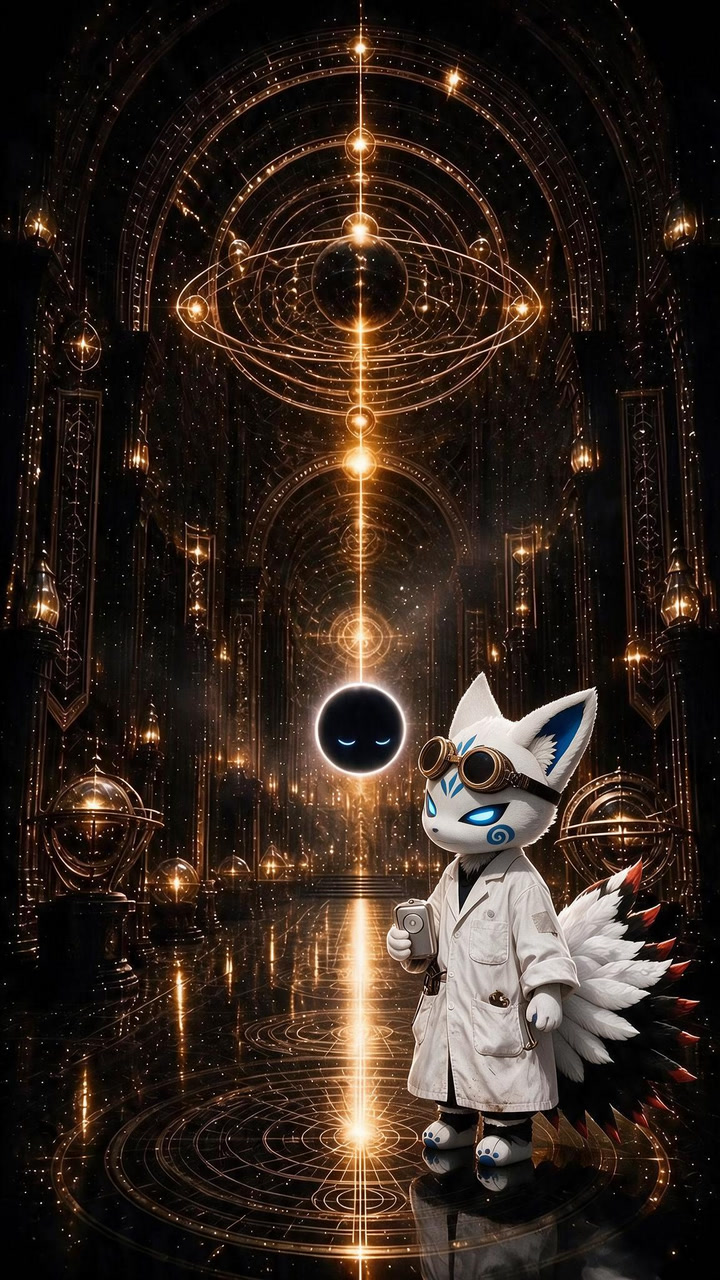
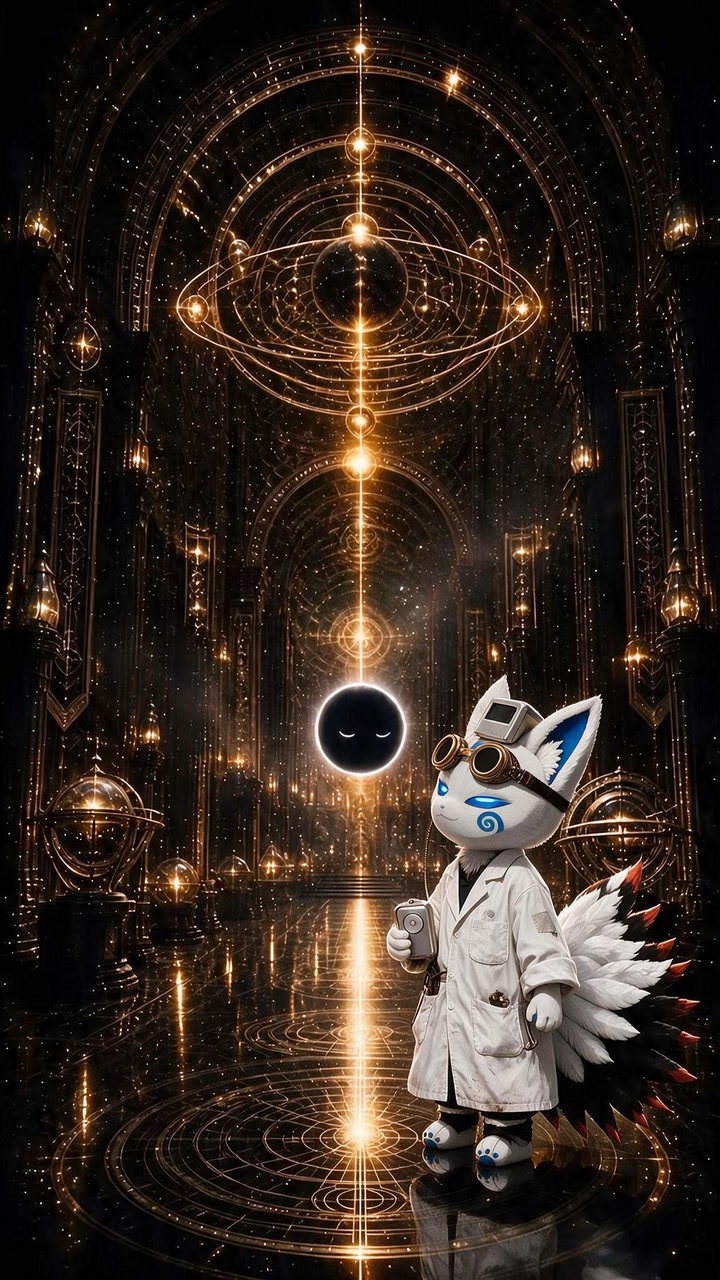
UI art: new pictures [skip ci]

Changed region(s): [[0.5806, 0.5312, 0.8556, 0.7188], [0.5194, 0.5625, 0.55, 0.5938], [0.4583, 0.5625, 0.4889, 0.5938]]

diff --git a/apps/web/public/onboarding/s/last-run.md b/apps/web/public/onboarding/s/last-run.md
@@ -1,13 +1,5 @@
-# UI art — 2026-10-26T05:37:32.375Z
+# UI art — 2026-10-26T05:44:10.955Z
 
-Seedream 5.0 Pro / 9枚 / 約22円
+Seedream 5.0 Pro / 1枚 / 約7円
 
 - ✅ d2-hall-kimorin-up
-- ✅ d2-hall-sky-monban
-- ✅ d2-kimorin-close-in
-- ✅ kimorin-i-think-o
-- ✅ kimorin-iu-point-glow
-- ✅ kimorin-iu-shock
-- ✅ kimorin-iu-shock-glow
-- ✅ kimorin-iu-shock-notail
-- ✅ kimorin-iu-shock-o

diff --git a/apps/web/public/atelier/raw/last-run.md b/apps/web/public/atelier/raw/last-run.md
@@ -1,4 +1,4 @@
-# UI art — 2026-10-26T05:37:32.415Z
+# UI art — 2026-10-26T05:44:10.988Z
 
 Seedream 5.0 Pro / 0枚 / 約0円
 

diff --git a/apps/web/public/dj/art/last-run.md b/apps/web/public/dj/art/last-run.md
@@ -1,4 +1,4 @@
-# UI art — 2026-10-26T05:34:46.521Z
+# UI art — 2026-10-26T05:40:01.268Z
 
 Seedream 5.0 Pro / 0枚 / 約0円
 

diff --git a/apps/web/public/ui/parts/raw/last-run.md b/apps/web/public/ui/parts/raw/last-run.md
@@ -1,4 +1,4 @@
-# UI art — 2026-10-26T05:37:32.449Z
+# UI art — 2026-10-26T05:44:11.018Z
 
 Seedream 5.0 Pro / 0枚 / 約0円
 
